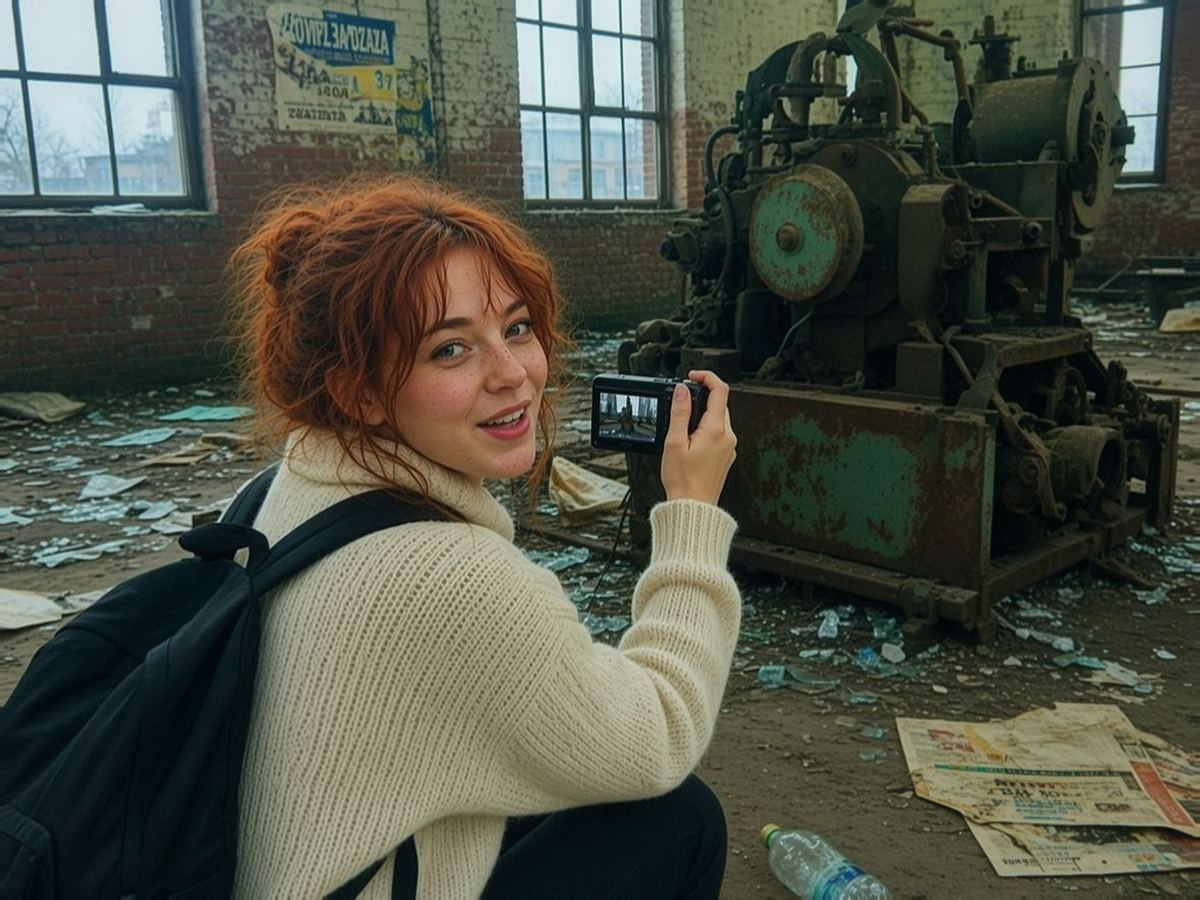
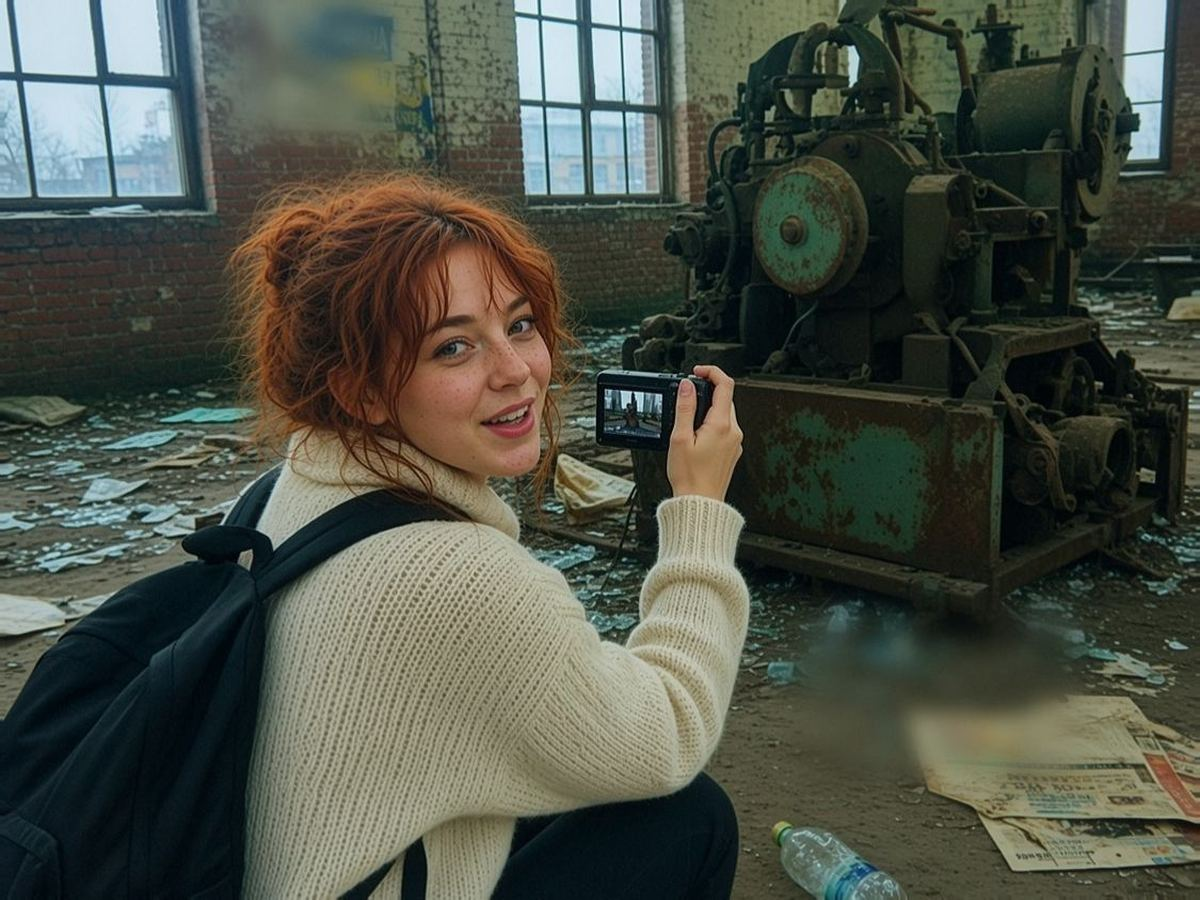
Usunięte zniekształcone napisy w maja_life1 i zuza_life1; SW v86

diff --git a/sw.js b/sw.js
@@ -1,5 +1,5 @@
 // Service worker: gra działa offline po pierwszym uruchomieniu.
-const VERSION = 'quiet-is-safer-v85';
+const VERSION = 'quiet-is-safer-v86';
 const FILES = [
   './', './index.html', './manifest.webmanifest', './icon.svg', './icon-192.png', './icon-512.png', './apple-touch-icon.png',
   './css/base.css', './css/apps.css', './css/web.css', './css/os.css', './css/messenger.css',

diff --git a/docs/PLAN-WDROZENIA-I-PRZEKAZANIE.md b/docs/PLAN-WDROZENIA-I-PRZEKAZANIE.md
@@ -824,3 +824,4 @@ Decyzje: klipy podpięte w odtwarzaczach na stronach www (bez nowych kroków fab
 - Wszystkie przeszły `tools/realism-post.py` (Codex, gpt-6.1-sol, medium): szum, aberracja, dystorsja, desaturacja, kadr telefonu, JPEG q78; nocne z `--night`. Plakaty klipów (`assets/video/*.jpg`) tylko łagodnie (`--strength 0.4`), same wideo bez zmian (propozycja: ffmpeg noise na klipach).
 - Wymiary plików bez zmian (Art.def w/h aktualne). SW v84.
 - 18.7b: klipy przekodowane ffmpeg (desaturacja 0.88, ziarno czasowe, CRF 29; v_stodola CRF 33 ze względu na limit 450 KB), plakaty = pierwsza klatka przetworzonego klipu (idealnie pasują); `materialy/klatki` przez realism-post (0.4). SW v85.
+- 18.7c: maja_life1 — rozmyty plakat i gazety (płytka głębia ostrości), zuza_life1 — kadr przycięty bez napisów (edycja generatora zmieniała twarze, odrzucona). SW v86.
